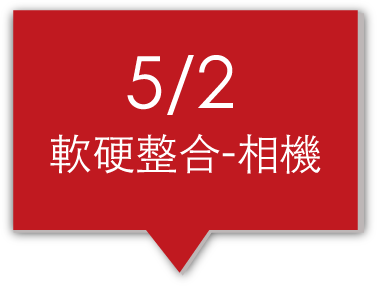
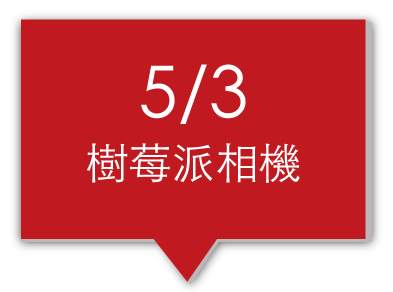
Community:
1.Adjust month length/tag position
2.Document at the top can compatible Safari/Chrome
3.Complete the content for each pop-up window

diff --git a/public/js/community/community.js b/public/js/community/community.js
@@ -8,23 +8,46 @@ app.controller('communityCtrl', ['$scope', function ($scope) {
 		//Event here
 		{date:'3/7', name:'網路前端設計', title: '網路前端工作坊',
 		 content: "<p>誰說沒有技術背景的人不能成為hacker？</p>\
-<p>我們相信只要有心，每個人都能成為自己動手解決問題的hacker。以一天密集的課程帶領不曾有過coding經驗，但擁有熱忱的學員踏出自己動手做的第一步。由HackNTU創辦人張凱迪擔任講師，借用他豐富的教學經驗與文組轉為工程師的特殊經歷，以過來人角度點燃初學者心中的hacker spirit。</p>\
-<p>除此之外，透過工作坊，學員結識其他同樣朝向黑客之路的人，於活動結束後，一同持續精進實力。</p>"},
-		{date:'3/28', title: '網頁 x 社群 x 半途出家 Meetup'},
-		{date:'5/3', name:'軟硬整合-相機', title: 'Hack into the City - Raspberry Pi 相機 IoT Workshop',
-		 content: "<p>在這個資訊爆炸，科技發達的時代，人們的生活步調越來越快，IoT(物聯網)是未來資訊技術在運算與溝通上的演進趨勢，而這樣的演進過程中將會需要各式各樣領域的技術及科技創新來帶動，小從奈米科技、大至城市無線網路的佈建，其影響範圍相當廣泛。</p>\
-  <p>今年二月，Raspberry pi基金會正推出新一代的Raspberry pi 2，搭載了時脈為900MHz的ARM四核心Cortex-A7處理器，使處理速度是前代的六倍，更可以支援microsoft新推出的Window 10作業系統，應用於物聯網開發之中。</p>\
-  <p>在本次工作坊之中，我們將會利用Raspberry pi Model B，這塊麻雀雖小，卻能發揮許多功用的板子，在上面寫些簡單的程式，搭配手機去控制相機，實現我們的需求，同時也能對於IoT這項概念能有所體驗。</p>\
-<p>連結：<a href='http://hackntuworkshop2.parseapp.com/'>http://hackntuworkshop2.parseapp.com/</a></p>"}
+					<p>我們相信只要有心，每個人都能成為自己動手解決問題<br>\
+					的hacker。以一天密集的課程帶領不曾有過coding經驗，<br>\
+					但擁有熱忱的學員踏出自己動手做的第一步。由HackNTU創辦人<br>\
+					張凱迪擔任講師，借用他豐富的教學經驗與文組轉為工程師<br>\
+					的特殊經歷，以過來人角度點燃初學者心中的hacker spirit。</p>\
+					<p>除此之外，透過工作坊，學員結識其他同樣朝向黑客之路的人，<br>\
+					於活動結束後，一同持續精進實力。</p>"},
+
+		{date:'3/28', name:'半途出家' ,title: '網頁 x 社群 x 半途出家 Meetup', 
+		content: "<p>一開始由 Ruby 的大大 — 高見龍，龍哥為<br>\
+					我們講述他高低起伏、充滿驚奇的程式學習歷程<br>\
+					；隨後也為我們帶來他對 Ruby 情有獨鍾的原因，並小露一手 Rails <br>\
+					快速開發的絕技，引起了大家一陣驚呼！</p>\
+					<p>中場休息後，由 HackNTU的好朋友、曾擔任第五屆 <br>\
+					Hackathon Taiwan總召的 Roger <br>\
+					為我們介紹他自身半路出家的故事。<br>\
+					，Roger 也對他所常用的 Node.js 進行了簡單的導覽，<br>\
+					並和大家分享過去擔任總召的辛酸血淚。</p>"},
+
+		{date:'5/3', name:'樹莓派相機工作坊', title: 'Raspberry Pi Camera Workshop',
+		 content: "<p>IoT(物聯網)是未來資訊技術在運算與溝通上的演進<br>\
+		 			趨勢，而這樣的演進過程中將會需要各式各樣領域<br>\
+		 			的技術及科技創新來帶動，小從奈米科技、大至城市<br>\
+		 			無線網路的佈建，其影響範圍相當廣泛。</p>\
+  					<p>在本次工作坊之中，我們將會利用<br>\
+ 					Raspberry pi Model B，這塊麻雀雖小，卻能發揮許多功用的<br>\
+ 					板子，在上面寫些簡單的程式，搭配手機去控制相機，<br>\
+ 					實現我們的需求，同時也能對於IoT這項概念能有所體驗。</p>"},
+ 					
+		{date:'5/28', name:'Data Science Meetup', title: 'Data Science / Open Data Meetup', 
+		content:'<h1>Coming soon</h1>'},
+
 	];
 
 	$scope.tags = [
 		//Timeline tags here
-		{date:'3/7,', picname:'activity-1', left: '100', background:'#BF1920'},
-		{date:'3/28', picname:'activity-2', left: '200', background:'#BF1920'},
-		{date:'5/3', picname:'activity-3', left: '300', background:'#BF1920'},
-		{date:'5/28', picname:'activity-4', left: '400', background:'#BF1920'},
-		{date:'7/4', picname:'activity-5', left: '500', background:'#BF1920'}
+		{date:'3/7,', picname:'activity-1', left: '160', background:'#BF1920'},//workshop
+		{date:'3/28', picname:'activity-2', left: '230', background:'#ED8216'},//meetup
+		{date:'5/3', picname:'activity-3', left: '400', background:'#BF1920'},//workshop
+		{date:'5/28', picname:'activity-4', left: '480', background:'#ED8216'}//meetup
 	];
 
 	$scope.clickTag = function(tag){

diff --git a/public/css/community/style.css b/public/css/community/style.css
@@ -28,8 +28,7 @@ body {
 	width: 800px;
 	position: absolute;
 	left: 50%;
-	top: 50%;
-	margin-top: -240px;
+	top: 12%;
 	margin-left: -400px;
 }
 
@@ -70,6 +69,7 @@ body {
 	bottom: 0;
 	left: 50%;
 	margin-left: -50px;
+	opacity: 0.7;
 }
 
 .section-main {
@@ -226,16 +226,28 @@ body {
 	background: #fff;
 }
 
-#month-1 {
-	left: 270px;
-}
-
-#month-2 {
-	left: 460px;
-}
-
 #month-3 {
-	left: 660px;
+	left: 140px;
+}
+
+#month-4 {
+	left: 260px;
+}
+
+#month-5 {
+	left: 380px;
+}
+
+#month-6 {
+	left: 500px;
+}
+
+#month-7 {
+	left: 620px;
+}
+
+#month-8 {
+	left: 740px;
 }
 
 .span-date {
